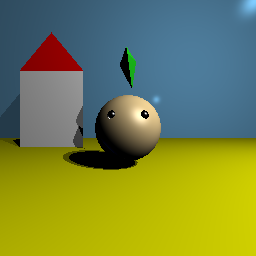
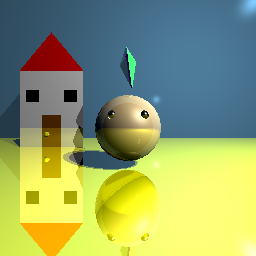
Improved house, almost final version

diff --git a/hw3.py b/hw3.py
@@ -90,12 +90,6 @@ def calc_specular(light, hit, object : Object3D, view_ray : Ray):
     
     return specular_intensity
 
-def calc_reflection(hit, object : Object3D, ray, depth, max_depth):
-    pass
-
-def get_normal(hit, object):
-    pass
-        
 # # Write your own objects and lights
 # # TODO
 # def your_own_scene():
@@ -128,10 +122,10 @@ def your_own_scene():
     sphere.set_material([0.8, 0.7, 0.5], [0.8, 0.7, 0.5], [0.3, 0.3, 0.3], 10, 0.3)  
 
     left_eye = Sphere(center=[-0.1, 0.08, 0.2], radius=0.03)
-    left_eye.set_material([0.0, 0.0, 0.0], [0.0, 0.0, 0.0], [1.0, 1.0, 1.0], 10, 0.3)  
+    left_eye.set_material([0, 0, 0], [0, 0, 0], [1, 1, 1], 10, 0.3)  
 
     right_eye = Sphere(center=[0.1, 0.08, 0.2], radius=0.03)
-    right_eye.set_material([0.0, 0.0, 0.0], [0.0, 0.0, 0.0], [1.0, 1.0, 1.0], 10, 0.3)  
+    right_eye.set_material([0, 0, 0], [0, 0, 0], [1, 1, 1], 10, 0.3)  
 
     plane = Plane([0, 1, 0], [0, -0.3, 0])
     plane.set_material([1, 1, 0], [1, 1, 0], [1, 1, 1], 1000, 0.8) 
@@ -139,31 +133,68 @@ def your_own_scene():
     background = Plane([0, 0, 1], [0, 0, -3])
     background.set_material([0.5, 0.8, 1], [0.5, 0.8, 1], [0.5, 0.8, 1], 1000, 0) 
 
-    house_lower_tri_list = np.array([[-1.7,-0.3,-1],
-                   [-0.7,-0.3,-1],
-                   [-1.7,0.9,-1]])
+    house_list = np.array([[-1.7, -0.3, -1],
+                           [-0.7, -0.3, -1],
+                           [-1.7, 0.9, -1],
+                           [-0.7, 0.9, -1]])
 
-    house_lower_tri = Triangle(*house_lower_tri_list)
-    house_lower_tri.set_material([1.0, 1.0, 1.0], [1.0, 1.0, 1.0], [0.1, 0.1, 0.1], 100, 0.5)
+    house_lower_tri = Triangle(house_list[0], house_list[1], house_list[2])
+    house_upper_tri = Triangle(house_list[1], house_list[3], house_list[2])
 
-    house_upper_tri_list = np.array([[-0.7,0.9,-1],
-                   [-0.7,-0.3,-1],
-                   [-1.7,0.9,-1]])
-    house_upper_tri = Triangle(*house_upper_tri_list[::-1])
-    house_upper_tri.set_material([1.0, 1.0, 1.0], [1.0, 1.0, 1.0], [0.1, 0.1, 0.1], 100, 0.5)
+    house_lower_tri.set_material([1, 1, 1], [1, 1, 1], [0.1, 0.1, 0.1], 100, 0.5)
+    house_upper_tri.set_material([1, 1, 1], [1, 1, 1], [0.1, 0.1, 0.1], 100, 0.5)
 
     roof_list = np.array([[-0.7,0.9,-1],
                    [-1.2,1.5,-1],
                    [-1.7,0.9,-1]])
     roof = Triangle(*roof_list)
-    roof.set_material([1, 0, 0], [1, 0, 0], [.1, .1, .1], 100, 0.5)
+    roof.set_material([1, 0, 0], [1, 0, 0], [0.1, 0.1, 0.1], 100, 0.5)
+
+    # left window
+    window1_list = np.array([[-1.6,0.4,-0.999],
+                             [-1.4,0.4,-0.999],
+                             [-1.6,0.6,-0.999],
+                             [-1.4,0.6,-0.999]])
+
+    window1_upper_tri = Triangle(window1_list[0], window1_list[1], window1_list[2])
+    window1_lower_tri = Triangle(window1_list[1], window1_list[3], window1_list[2])
+
+    window1_lower_tri.set_material([0, 0, 0], [0, 0, 0], [0.1, 0.1, 0.1], 100, 0.5)
+    window1_upper_tri.set_material([0, 0, 0], [0, 0, 0], [0.1, 0.1, 0.1], 100, 0.5)
+
+    # right window
+    window2_list = np.array([[-1.0,0.4,-0.999],
+                             [-0.8,0.4,-0.999],
+                             [-1.0,0.6,-0.999],
+                             [-0.8,0.6,-0.999]])
+
+    window2_upper_tri = Triangle(window2_list[0], window2_list[1], window2_list[2])
+    window2_lower_tri = Triangle(window2_list[1], window2_list[3], window2_list[2])
+
+    window2_lower_tri.set_material([0, 0, 0], [0, 0, 0], [0.1, 0.1, 0.1], 100, 0.5)
+    window2_upper_tri.set_material([0, 0, 0], [0, 0, 0], [0.1, 0.1, 0.1], 100, 0.5)
+
+    door_list = np.array([[-1.35,-0.3,-0.999],
+                        [-1.05,-0.3,-0.999],
+                        [-1.35,0.2,-0.999],
+                        [-1.05,0.2,-0.999]])
+
+    door_upper_tri = Triangle(door_list[0], door_list[1], door_list[2])
+    door_lower_tri = Triangle(door_list[1], door_list[3], door_list[2])
+
+    door_lower_tri.set_material([0.5, 0.25, 0], [0.5, 0.25, 0], [0.1, 0.1, 0.1], 100, 0.5)
+    door_upper_tri.set_material([0.5, 0.25, 0], [0.5, 0.25, 0], [0.1, 0.1, 0.1], 100, 0.5)
+
+    door_knob = Sphere(center=[-1.27, -0.1, -0.998], radius=0.04)
+    door_knob.set_material([0.8, 0.8, 0], [0.8, 0.8, 0], [0.3, 0.3, 0.3], 50, 0.4)
 
     point_light = PointLight(intensity=np.array([1, 1, 1]), position=np.array([2, 2, 2]), kc=0.1, kl=0.1, kq=0.1)
     directional_light = DirectionalLight(intensity=np.array([0.5, 0.5, 0.5]), direction=np.array([-1, -1, -1]))
 
     camera = np.array([0, 0, 1])  
 
-    objects = [diamond, sphere, plane, background, left_eye, right_eye, house_lower_tri, house_upper_tri, roof]
+    objects = [diamond, sphere, plane, background, left_eye, right_eye, house_lower_tri, house_upper_tri, roof,
+               window1_upper_tri, window1_lower_tri, window2_upper_tri, window2_lower_tri, door_upper_tri, door_lower_tri, door_knob]
     lights = [point_light, directional_light]
 
     return camera, lights, objects
